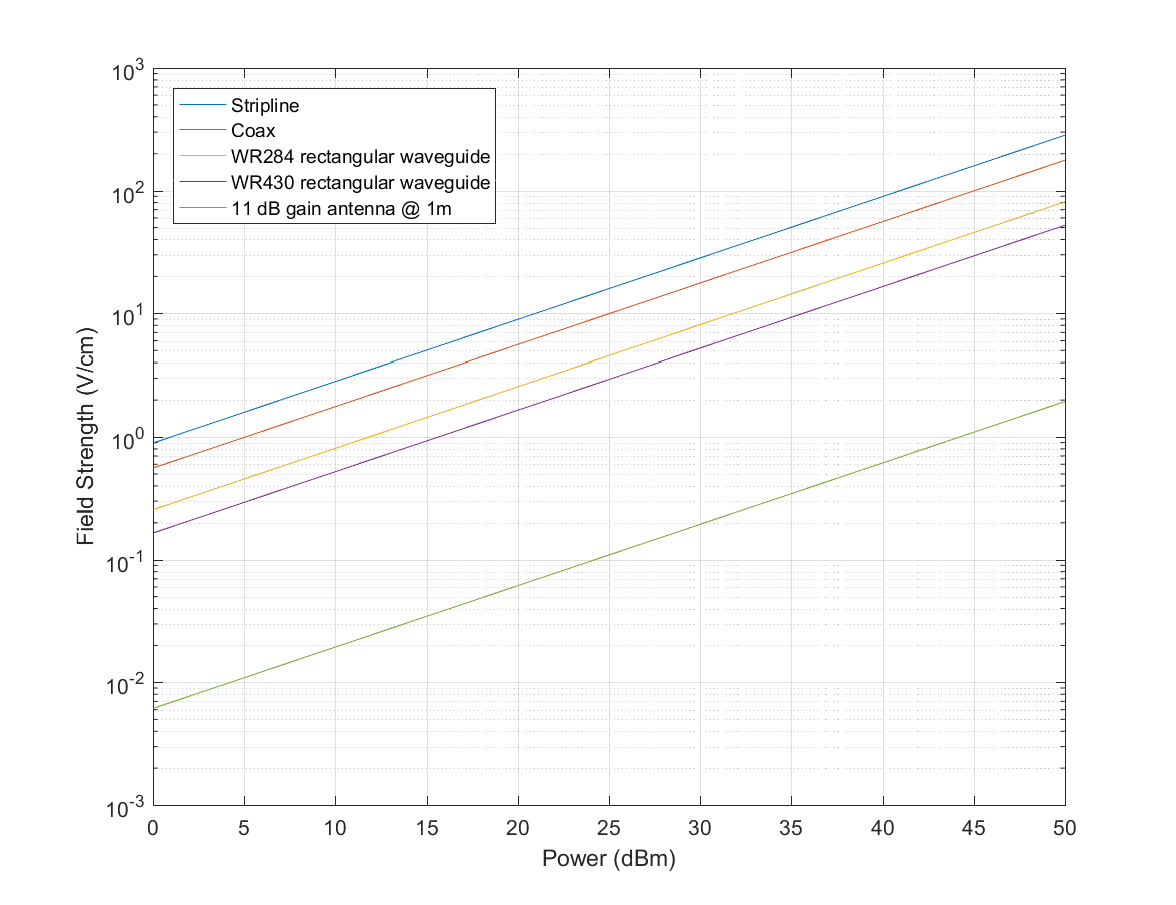
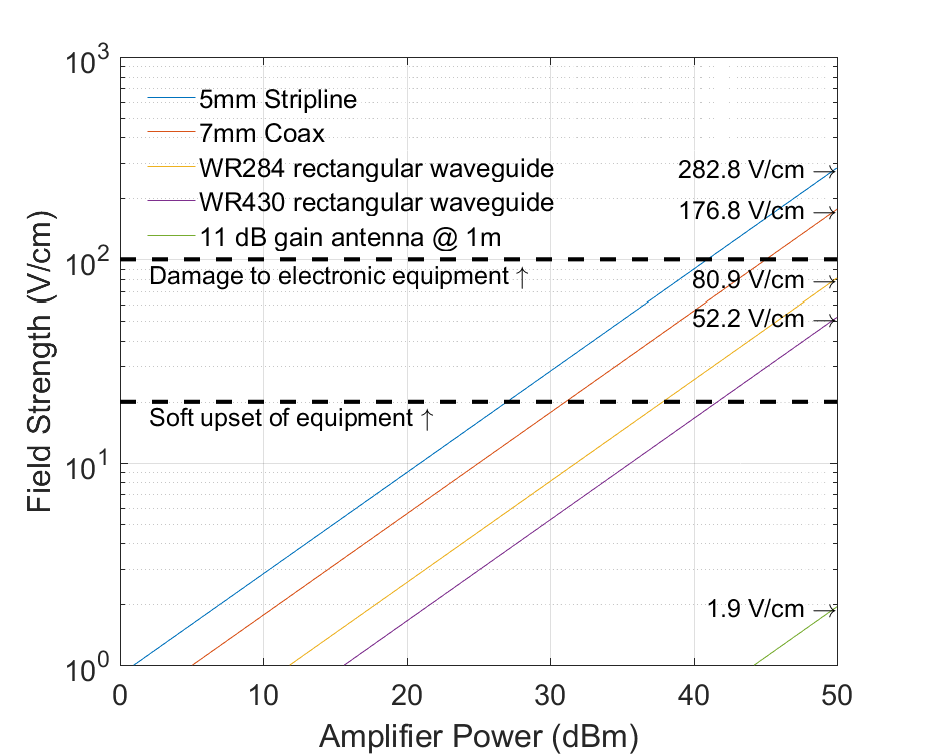
Plots for FY17

diff --git a/steve_plot_td.m b/steve_plot_td.m
@@ -1,0 +1,84 @@
+%pzt25 = HighPowerNonMag('stripline','PZT',0.001,'stripline_air_25dBm_1-25-17.dat','Steve_loaded_stripline_25dbm_1-25-17.dat','Steve_loaded_stripline_25dbm_1-25-17.dat',' ');
+%pzt30 = HighPowerNonMag('stripline','PZT',0.001,'stripline_air_30dBm_1-25-17.dat','Steve_loaded_stripline_30dbm_1-25-17.dat','Steve_loaded_stripline_30dbm_1-25-17.dat',' ');
+%pzt35 = HighPowerNonMag('stripline','PZT',0.001,'stripline_air_35dBm_1-25-17.dat','Steve_loaded_stripline_35dbm_1-25-17.dat','Steve_loaded_stripline_35dbm_1-25-17.dat',' ');
+pzt40 = HighPowerNonMag('stripline','PZT',0.001,'stripline_air_40dBm_1-25-17.dat','Steve_loaded_stripline_40dbm_1-25-17.dat','Steve_loaded_stripline_40dbm_1-25-17.dat',' ');
+pzt45 = HighPowerNonMag('stripline','PZT',0.001,'stripline_air_45dBm_1-25-17.dat','Steve_loaded_stripline_45dbm_1-25-17.dat','Steve_loaded_stripline_45dbm_1-25-17.dat',' ');
+pzt50 = HighPowerNonMag('stripline','PZT',0.001,'stripline_air_50dBm_1-25-17.dat','Steve_loaded_stripline_50dbm_1-25-17.dat','Steve_loaded_stripline_50dbm_1-25-17.dat',' ');
+%pzt2_25 = HighPowerNonMag('stripline','PZT',0.001,'stripline_air_25dBm_1-25-17.dat','Steve_dep311_0p15_stripline_25dbm_1-25-17.dat','Steve_dep311_0p15_stripline_25dbm_1-25-17.dat',' ');
+%pzt2_30 = HighPowerNonMag('stripline','PZT',0.001,'stripline_air_30dBm_1-25-17.dat','Steve_dep311_0p15_stripline_30dbm_1-25-17.dat','Steve_dep311_0p15_stripline_30dbm_1-25-17.dat',' ');
+%pzt2_35 = HighPowerNonMag('stripline','PZT',0.001,'stripline_air_35dBm_1-25-17.dat','Steve_dep311_0p15_stripline_35dbm_1-25-17.dat','Steve_dep311_0p15_stripline_35dbm_1-25-17.dat',' ');
+pzt2_40 = HighPowerNonMag('stripline','PZT',0.001,'stripline_air_40dBm_1-25-17.dat','Steve_dep311_0p15_stripline_40dbm_1-25-17.dat','Steve_dep311_0p15_stripline_40dbm_1-25-17.dat',' ');
+pzt2_45 = HighPowerNonMag('stripline','PZT',0.001,'stripline_air_45dBm_1-25-17.dat','Steve_dep311_0p15_stripline_45dbm_1-25-17.dat','Steve_dep311_0p15_stripline_45dbm_1-25-17.dat',' ');
+pzt2_50 = HighPowerNonMag('stripline','PZT',0.001,'stripline_air_50dBm_1-25-17.dat','Steve_dep311_0p15_stripline_50dbm_1-25-17.dat','Steve_dep311_0p15_stripline_50dbm_1-25-17.dat',' ');
+freq = pzt25.frequency/1e9;
+figure;
+plot(freq,real(pzt40.epsilon),'r',freq,real(pzt2_40.epsilon),'r--',...
+    freq,real(pzt45.epsilon),'b',freq,real(pzt2_45.epsilon),'b--',freq,real(pzt50.epsilon),'k',freq,real(pzt2_50.epsilon),'k--')
+xlabel('frequency (GHz)')
+ylabel('real permittivity')
+title('Graphene on Polarized and Depolarized PZT')
+legend('40dBm P','40dBm D','45dBm P','25dBm D','50dBm P','50dBm D','Location','northwest')
+legend('boxoff')
+grid on
+%%
+figure;
+plot(freq,imag(pzt40.epsilon),'r',freq,imag(pzt2_40.epsilon),'r--',...
+    freq,imag(pzt45.epsilon),'b',freq,imag(pzt2_45.epsilon),'b--',freq,imag(pzt50.epsilon),'k',freq,imag(pzt2_50.epsilon),'k--')
+xlabel('frequency (GHz)')
+ylabel('imaginary permittivity')
+title('Graphene on Polarized and Depolarized PZT')
+legend('40dBm P','40dBm D','45dBm P','25dBm D','50dBm P','50dBm D','Location','northwest')
+legend('boxoff')
+grid on
+%%
+figure;
+plot(freq,real(pzt25.epsilon - pzt2_25.epsilon),freq,real(pzt30.epsilon - pzt2_30.epsilon),...
+    freq,real(pzt35.epsilon - pzt2_35.epsilon),freq,real(pzt40.epsilon - pzt2_40.epsilon),...
+    freq,real(pzt45.epsilon - pzt2_45.epsilon),freq,real(pzt50.epsilon - pzt2_50.epsilon))
+xlabel('frequency (GHz)')
+ylabel('real permittivity')
+title('Polarized - Depolarized')
+legend('25dBm','30dBm','35dBm','40dBm','45dBm','50dBm','Location','northwest')
+legend('boxoff')
+grid on
+%%
+%{
+figure;
+plot(freq,imag(pzt25.mu),'r',freq,imag(pzt2_25.mu),'r--',freq,imag(pzt30.mu),'y',freq,imag(pzt2_30.mu),'y--',...
+    freq,imag(pzt35.mu),'g',freq,imag(pzt2_35.mu),'g--',freq,imag(pzt40.mu),'c',freq,imag(pzt2_40.mu),'c--',...
+    freq,imag(pzt45.mu),'b',freq,imag(pzt2_45.mu),'b--',freq,imag(pzt50.mu),'k',freq,imag(pzt2_50.mu),'k--')
+xlabel('frequency (GHz)')
+ylabel('imaginary permittivity')
+title('Polarized and Depolarized')
+legend('25dBm P','25dBm D','30dBm P','30dBm D','35dBm P','35dBm D','40dBm P','40dBm D','45dBm P','25dBm D','50dBm P','50dBm D','Location','northwest')
+legend('boxoff')
+grid on
+%}
+figure;
+plot(freq,imag(pzt40.epsilon - pzt2_40.epsilon),...
+    freq,imag(pzt45.epsilon - pzt2_45.epsilon),freq,imag(pzt50.epsilon - pzt2_50.epsilon))
+xlabel('frequency (GHz)')
+ylabel('imaginary permittivity')
+title('Polarized - Depolarized')
+legend('40dBm','45dBm','50dBm','Location','northwest')
+legend('boxoff')
+grid on
+%%
+%{
+figure;
+plot(freq,real(pzt25.epsilon),freq,real(pzt2_25.epsilon))
+xlabel('frequency (GHz)')
+ylabel('real permittivity')
+title('Polarized and Depolarized PZT')
+legend('Polarized','Depolarized','Location','northwest')
+legend('boxoff')
+grid on
+figure;
+plot(freq,imag(pzt25.epsilon),freq,imag(pzt2_25.epsilon))
+xlabel('frequency (GHz)')
+ylabel('imaginary permittivity')
+title('Polarized and Depolarized PZT')
+legend('Polarized','Depolarized','Location','northwest')
+legend('boxoff')
+grid on
+%}

diff --git a/bto.m b/bto.m
@@ -27,8 +27,8 @@ for pow = 10:50
     %}
     %{
     airfile = sprintf('75mm_coax_air_%ddbm_3-24-17.dat',pow);
-    matfile = sprintf('75mm_coax_10_p_Y5V_5p64mm_%ddbm_3-24-17.dat',pow);
-    matfile180 = sprintf('75mm_coax_10_p_Y5V-flipped_5p64mm_%ddbm_3-24-17.dat',pow);
+    matfile = sprintf('75mm_coax_20_p_z5u_4p54%ddbm_3-24-17.dat',pow);
+    matfile180 = sprintf('75mm_coax_20_p_z5u-flipped_4p54_%ddbm_3-24-17.dat',pow);
     width = 0.00564;
     %}
     %{
@@ -37,23 +37,32 @@ for pow = 10:50
     matfile180 = sprintf('75mm_coax_1_p_Y5V-flipped_5p00mm_%ddbm_3-24-17.dat',pow);
     width = 0.005;
     %}
-    %bto_dat = HighPowerPerms2('coax75','wax',width,airfile,matfile,matfile180,' ');
-    bto_dat = HighPowerNonMag('coax75','wax',width,airfile,matfile,matfile180,' ');
+    %{
+    airfile = sprintf('75mm_coax_air_%ddbm_3-24-17.dat',pow);
+    matfile = sprintf('75mm_coax_1_p_Y5V_5p00mm_%ddbm_3-24-17.dat',pow);
+    matfile180 = sprintf('75mm_coax_1_p_Y5V-flipped_5p00mm_%ddbm_3-24-17.dat',pow);
+    width = 0.005;
+    %}
+    %
+    bto_dat = HighPowerPerms2('coax75','wax',width,airfile,matfile,matfile180,' ');
+    %bto_dat = HighPowerNonMag('coax75','wax',width,airfile,matfile,matfile180,' ');
     epsilon(:,pow-9) = bto_dat.epsilon;
-    %mu(:,pow-9) = bto_dat.mu;    
+    mu(:,pow-9) = bto_dat.mu;    
 end
 diffEpsilon = diff(epsilon,1,2);
-%diffMu = diff(mu,1,2);
+diffMu = diff(mu,1,2);
 figure;
 subplot(211)
-plot(bto_dat.frequency/1e9,real(diffEpsilon(:,20:end)))
+plot(bto_dat.frequency/1e9,real(diffEpsilon(:,30:end)))
 xlabel('frequency (GHz)')
 ylabel('\epsilon\prime_r')
+grid on
 subplot(212)
-plot(bto_dat.frequency/1e9,imag(diffEpsilon(:,20:end)))
+plot(bto_dat.frequency/1e9,imag(diffEpsilon(:,30:end)))
 xlabel('frequency (GHz)')
 ylabel('\epsilon\prime\prime_r')
-%{
+grid on
+%
 figure;
 subplot(211)
 plot(bto_dat.frequency/1e9,real(diffMu))
@@ -65,13 +74,13 @@ xlabel('frequency (GHz)')
 ylabel('\mu\prime\prime_r')
 %}
 figure;
-contourf(11:50,bto_dat.frequency/1e9,real(diffEpsilon))
+contourf(40:50,bto_dat.frequency/1e9,real(diffEpsilon(:,30:end)))
 xlabel('power (dBm)')
 ylabel('frequency (GHz)')
 title('Power response of \epsilon\prime')
 colorbar
 figure;
-contourf(11:50,bto_dat.frequency/1e9,imag(diffEpsilon))
+contourf(40:50,bto_dat.frequency/1e9,imag(diffEpsilon(:,30:end)))
 xlabel('power (dBm)')
 ylabel('frequency (GHz)')
 title('Power response of \epsilon\prime\prime')

diff --git a/Data/Coax meas 3-24/coax_power_response_v2.m b/Data/Coax meas 3-24/coax_power_response_v2.m
@@ -7,15 +7,15 @@ for pow = 10:50
     s21(:,pow-9) = s_21;
 end
 subplot(211)
-plot(frequency/1e9,angle(s11))
-xlabel('power (dBm)')
-ylabel('magnitude')
-title('s11')
-subplot(212)
 plot(frequency/1e9,angle(s21))
-xlabel('power (dBm)')
+xlabel('frequency (GHz)')
 ylabel('magnitude')
-title('s21')
+title('Phase S21')
+subplot(212)
+plot(frequency/1e9,abs(s21))
+xlabel('frequency (GHz)')
+ylabel('magnitude')
+title('Amplitude S21')
 figure;
 contourf(10:50,frequency/1e9,abs(s11))
 colorbar

diff --git a/FieldStrengthCalc.m b/FieldStrengthCalc.m
@@ -25,6 +25,6 @@ text(50,device5(51),sprintf('%0.1f V/cm \\rightarrow',device5(51)),'HorizontalAl
 text(2,85,'Damage to electronic equipment \uparrow','HorizontalAlignment','left','FontSize',12);
 text(2,17,'Soft upset of equipment \uparrow','HorizontalAlignment','left','FontSize',12);
 %text(50,10,'Maximum output of amplifier \rightarrow','HorizontalAlignment','right','FontSize',12);
-set(gca,'FontSize',13)
+set(gca,'FontSize',14)
 ylim([1 1e3])
 legend('boxoff')

diff --git a/TransmissionPic.m b/TransmissionPic.m
@@ -7,6 +7,6 @@ set(gca,'YTick',[0 1])
 %set(gca,'XTickLabel',{'Low','Order of kW/m^2','High'})
 ylabel('Transmission')
 xlabel('Field Strength')
-text(2.5,0.94,'\uparrow T \approx 99%','FontSize',16)
-text(-2.5,0.07,'\downarrow T \approx 1%','FontSize',16)
-set(gca,'fontsize',14)
+text(2.5,0.93,'\uparrow T \approx 99%','FontSize',16)
+text(-2.5,0.08,'\downarrow T \approx 1%','FontSize',16)
+set(gca,'fontsize',16)
